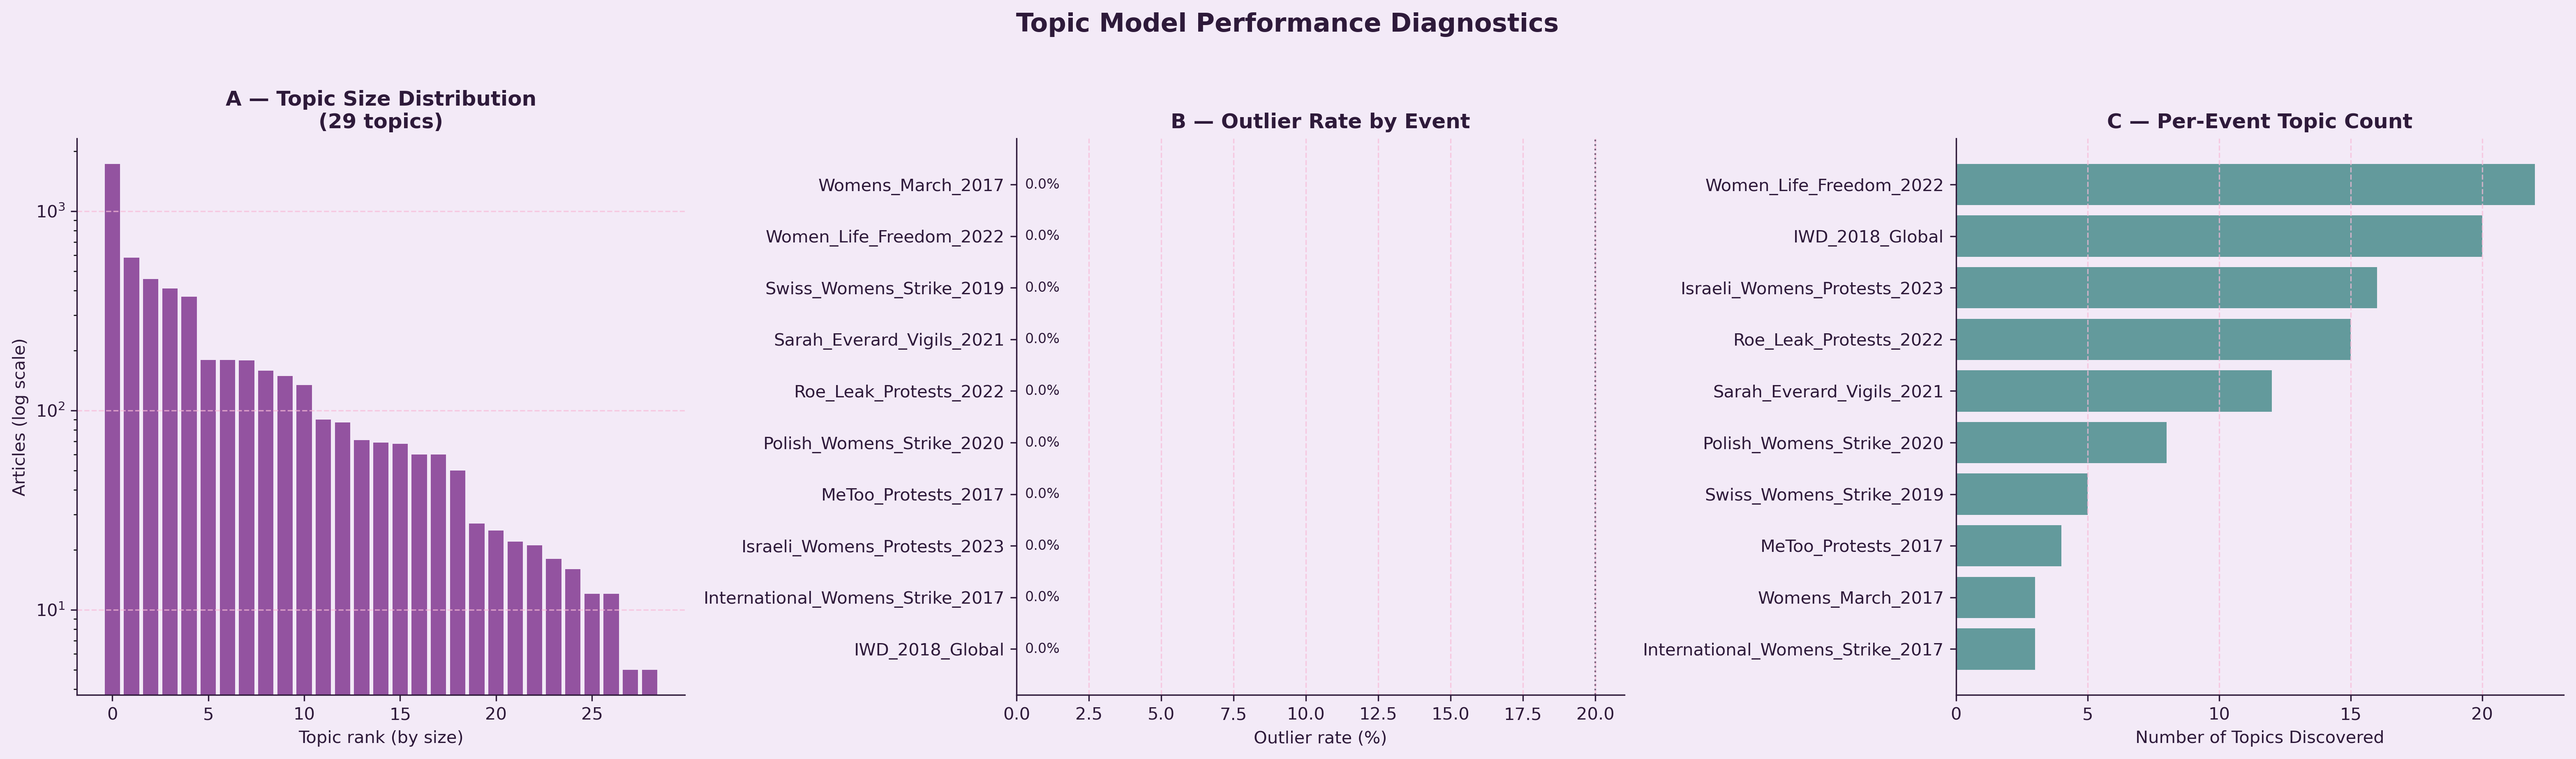
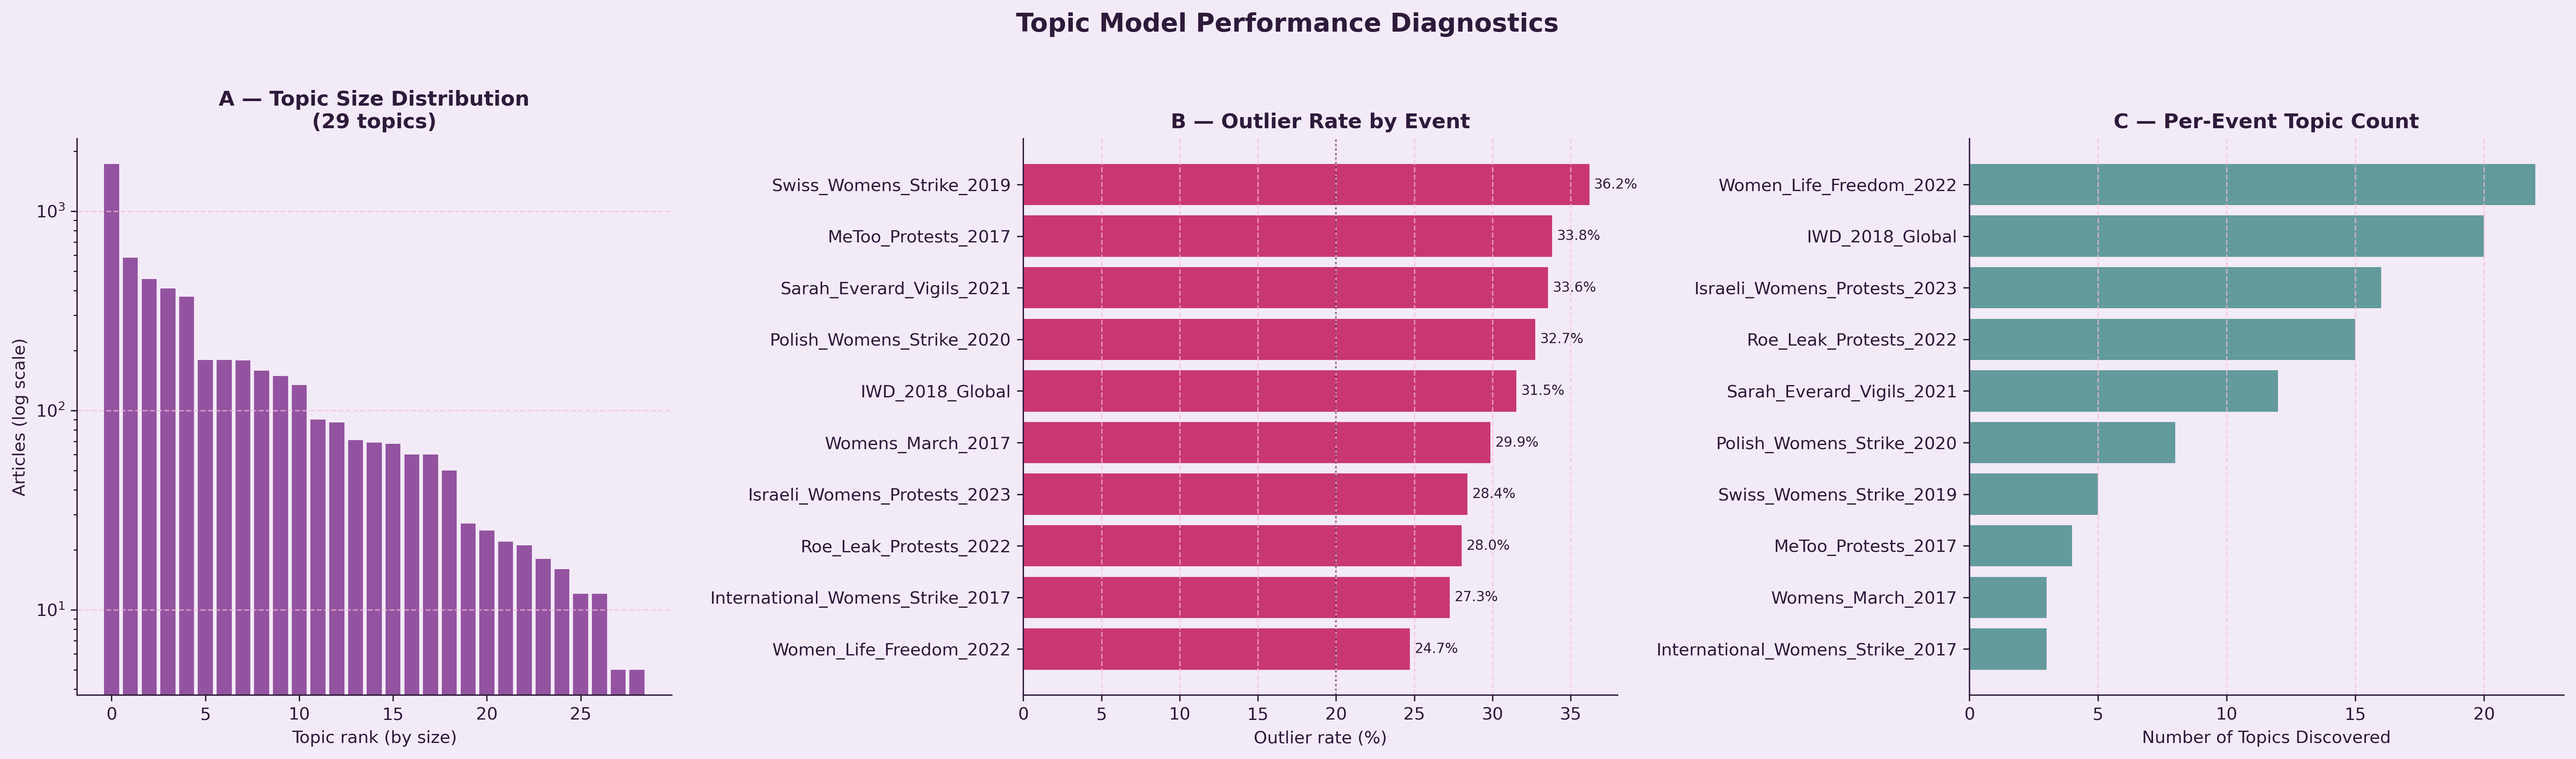
update model performance vis

diff --git a/visualise.py b/visualise.py
@@ -1581,10 +1581,13 @@ def main() -> None:
     name_map = {row["Topic"]: clean_topic_name(row["Name"]) for _, row in info_df.iterrows()}
 
     if "topic_id" in df.columns:
+        # ← ADD THIS before the filter
+        df_unfiltered = df.copy()
         df = df[df["topic_id"].notna() & (df["topic_id"] != -1)].copy()
         df["topic_id"] = df["topic_id"].astype(int)
         df["friendly_name"] = df["topic_id"].map(name_map).fillna("Unknown")
     else:
+        df_unfiltered = df.copy()
         df["friendly_name"] = "Unknown"
 
     # ── Load per-event topic label maps ───────────────────────────────────────
@@ -1633,7 +1636,7 @@ def main() -> None:
     # ── Static diagrams ───────────────────────────────────────────────────────
     chart_pipeline_diagram(args.out_dir, DPI)
     chart_workflow_diagram(args.out_dir, DPI)
-    chart_model_performance(df, args.topic_info, args.out_dir, DPI)
+    chart_model_performance(df_unfiltered, args.topic_info, args.out_dir, DPI)
 
     # ── Bias report ───────────────────────────────────────────────────────────
     print("\nGenerating bias report ...")
